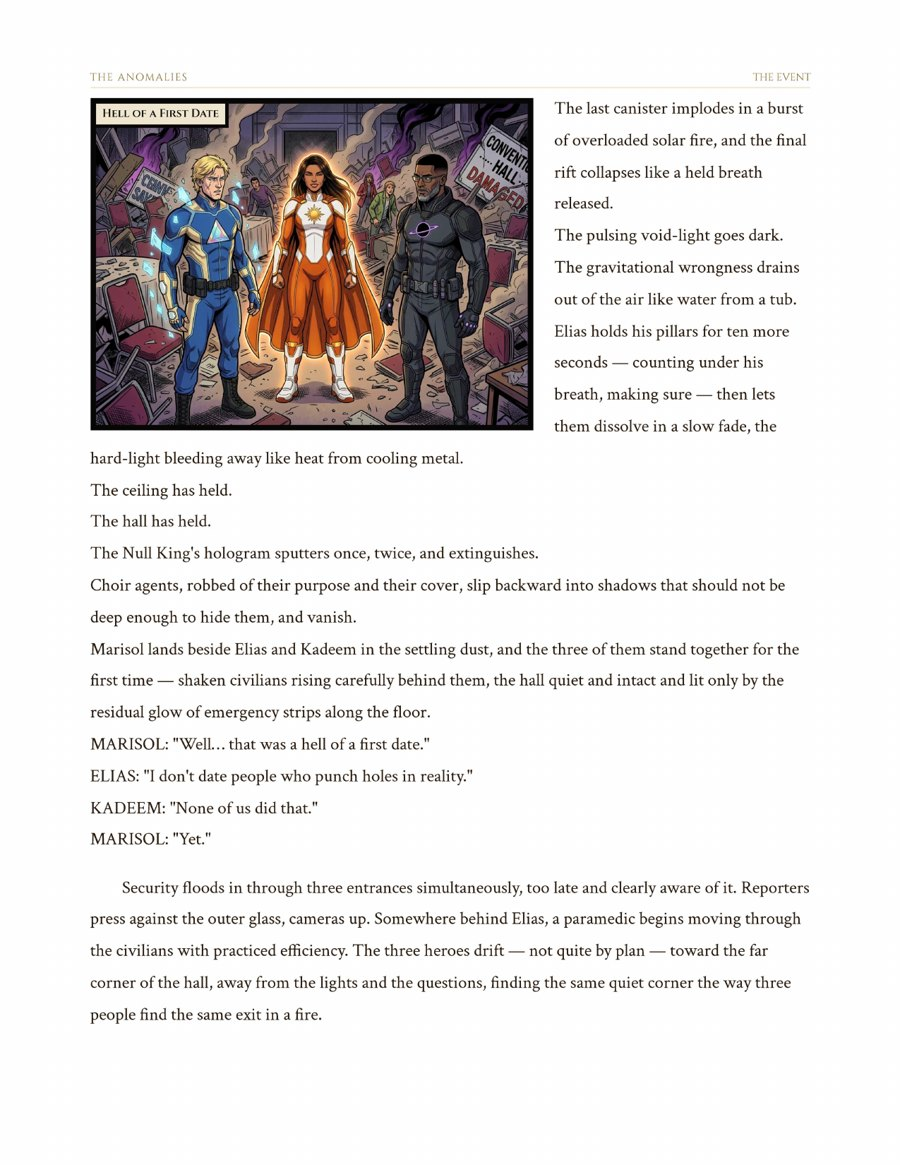
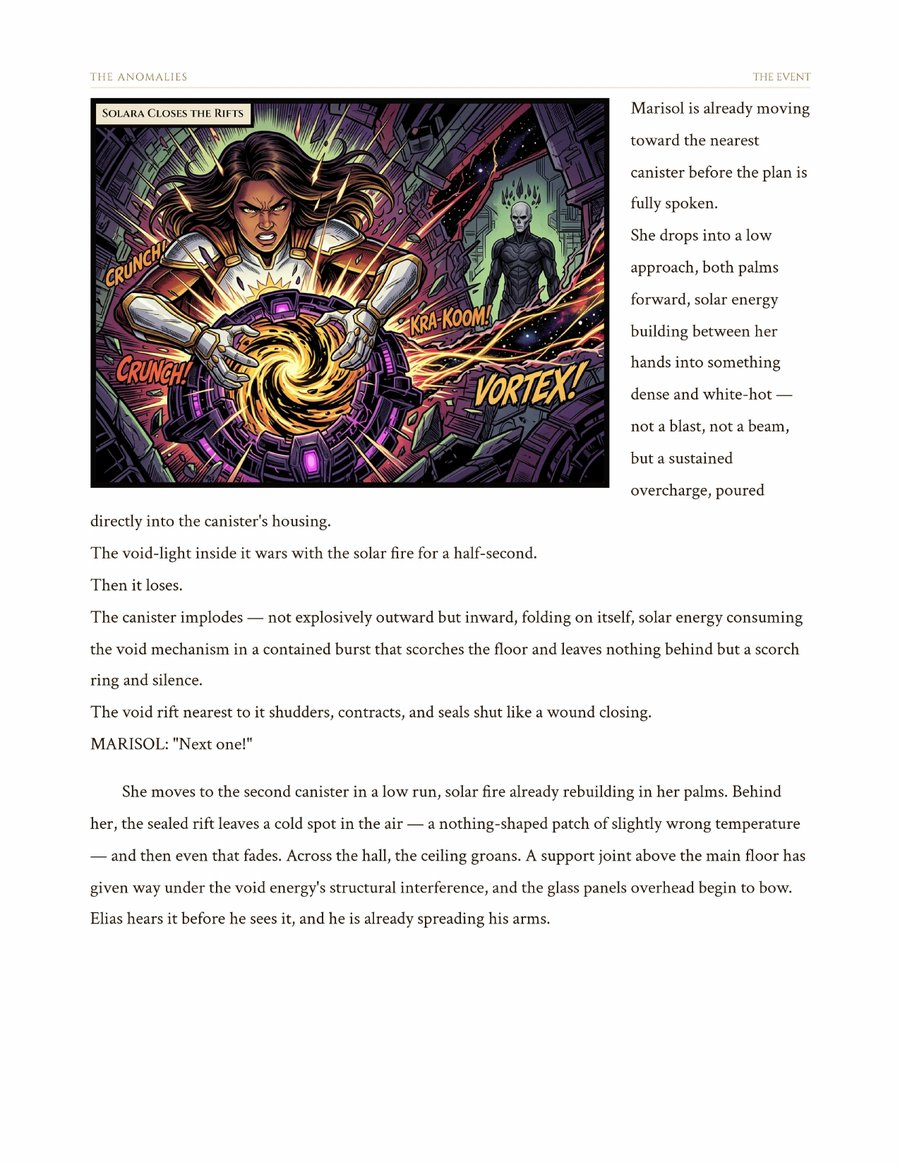
v3.0.907 - TD-772 slot nine becomes Solara Closes the Rifts - same book and the same page shape as Hell of a First Date, but one figure mid-action with the collapsing canister lit between her hands instead of three standing still after the fight - and the manifest line calling slot nine a comic-page

Changed region(s): [[0.0933, 0.0618, 0.9022, 0.8961]]

diff --git a/public/js/story-pageturn.js b/public/js/story-pageturn.js
@@ -26,15 +26,22 @@
 //   6  Filling the Cavity            Going to the Dentist   children's / skill story
 //   7  The Drop Point                Streets of Silver Shadow   pen and ink, handwritten type
 //   8  The Company                   Embers of Damnation    the character page
-//   9  Hell of a First Date          The ANOMALIES          comic-page layout, superhero
+//   9  Solara Closes the Rifts       The ANOMALIES          superhero, drawn sound effects
 //  10  The Signal Arrives            test campaign          science fiction
 //  11  The Shadow Grabs a Star       Starbound Skies        anime-leaning, aurora palette
 //  12  Stranger at the Door          test campaign          romance / suspense
 //  13  Laughter That Becomes Music   Dojo of the Dragon Spirits   luminous high fantasy
 //  14  I'd a Bet on Him Too          Our Family Stories     the closing beat
 //
-// ELEVEN GENRES, SEVEN ART STYLES, FOUR LAYOUTS, a cover and a character page. The two styles
-// still unrepresented are watercolor and charcoal.
+// ELEVEN GENRES, SEVEN ART STYLES, a cover and a character page, and four page SHAPES that are
+// visible rather than asserted: full-bleed (3), a wide image over prose (5), a portrait beside a
+// column (7), and a small image with a side column (9). The two art styles still unrepresented
+// are watercolor and charcoal.
+//
+// THE LAYOUT COUNT USED TO BE FOUR NAMED LAYOUTS and slot nine was called the comic-page one.
+// It never was: what I had read as a panel grid is three figures standing side by side inside a
+// single illustration. The count above is now of shapes anyone can check by looking at the four
+// pages named, which is the only kind of claim a comment should be making.
 //
 // SLOT TEN WAS RE-PICKED IN v3.0.904. The first science-fiction page was a fleet action -- ships
 // and empty space, like every other page in that book. This one is a control room with four
@@ -47,11 +54,18 @@
 // Shadow Grabs a Star is two characters at arm's length, lit by the fragment one of them is
 // holding, with the comet field behind them. A panel this small wants faces.
 //
+// SLOT NINE WAS RE-PICKED IN v3.0.907 at Ian's direction -- the THIRD SLOT to go on the same
+// reasoning, after ten and eleven. Hell of a First Date is three heroes standing still in a
+// damaged hall after the fight; Solara Closes the Rifts is one of them mid-action with the
+// collapsing canister lit between her hands. The page SHAPE is identical, so the set loses
+// nothing by the swap. The drawn sound effects (CRUNCH, KRA-KOOM, VORTEX) all spell correctly,
+// checked at full resolution because this book is rasterised and has no text to read.
+//
 // AT 3.8 SECONDS A PAGE THIS IS A 53-SECOND CYCLE and nobody sees the end of it. The coverage is
 // for the pages' own sake; the ORDER is what a visitor actually experiences.
 (function () {
   'use strict';
-  var V = '3.0.906';        // cache stamp -- bump when the pictures are replaced in place
+  var V = '3.0.907';        // cache stamp -- bump when the pictures are replaced in place
   var COUNT = 14;             // story-pic1.jpg .. story-pic14.jpg
   var DWELL = 2600, TURN = 1200;  // TURN must equal the transition in landing-story.css
 

diff --git a/views/story.html b/views/story.html
@@ -43,7 +43,7 @@
        three panel images are set in landing.css, not in this markup, so they can only be
        cleared from a stylesheet -- and clearing them HERE is what keeps index.html untouched.
        This is the file to hand different art, or a different look, when the time comes. -->
-  <link rel="stylesheet" href="/css/landing-story.css?v=3.0.906">
+  <link rel="stylesheet" href="/css/landing-story.css?v=3.0.907">
   <link rel="manifest" href="/manifest.webmanifest" />
   <meta name="theme-color" content="#0a0806" />
   <meta name="apple-mobile-web-app-capable" content="yes" />
@@ -378,6 +378,6 @@
 function cmpToggleNav(){var m=document.getElementById('mobileMenu');var b=document.getElementById('navToggle');if(!m)return;var open=m.classList.toggle('open');if(b)b.setAttribute('aria-expanded',open?'true':'false');}
 function cmpCloseNav(){var m=document.getElementById('mobileMenu');var b=document.getElementById('navToggle');if(m)m.classList.remove('open');if(b)b.setAttribute('aria-expanded','false');}
 </script>
-<script src="/js/story-pageturn.js?v=3.0.906" defer></script>
+<script src="/js/story-pageturn.js?v=3.0.907" defer></script>
 </body>
 </html>

diff --git a/public/css/landing-story.css b/public/css/landing-story.css
@@ -47,7 +47,7 @@
    the script adds sits on top of it, so a blocked script, an old browser or a slow network all
    degrade to a picture rather than to a black rectangle. */
 .hero-img-panel.story-img-slot {
-  background-image: url('/images/story-pic1.jpg?v=3.0.906');
+  background-image: url('/images/story-pic1.jpg?v=3.0.907');
   background-size: contain;
   background-repeat: no-repeat;
   background-position: center center;
